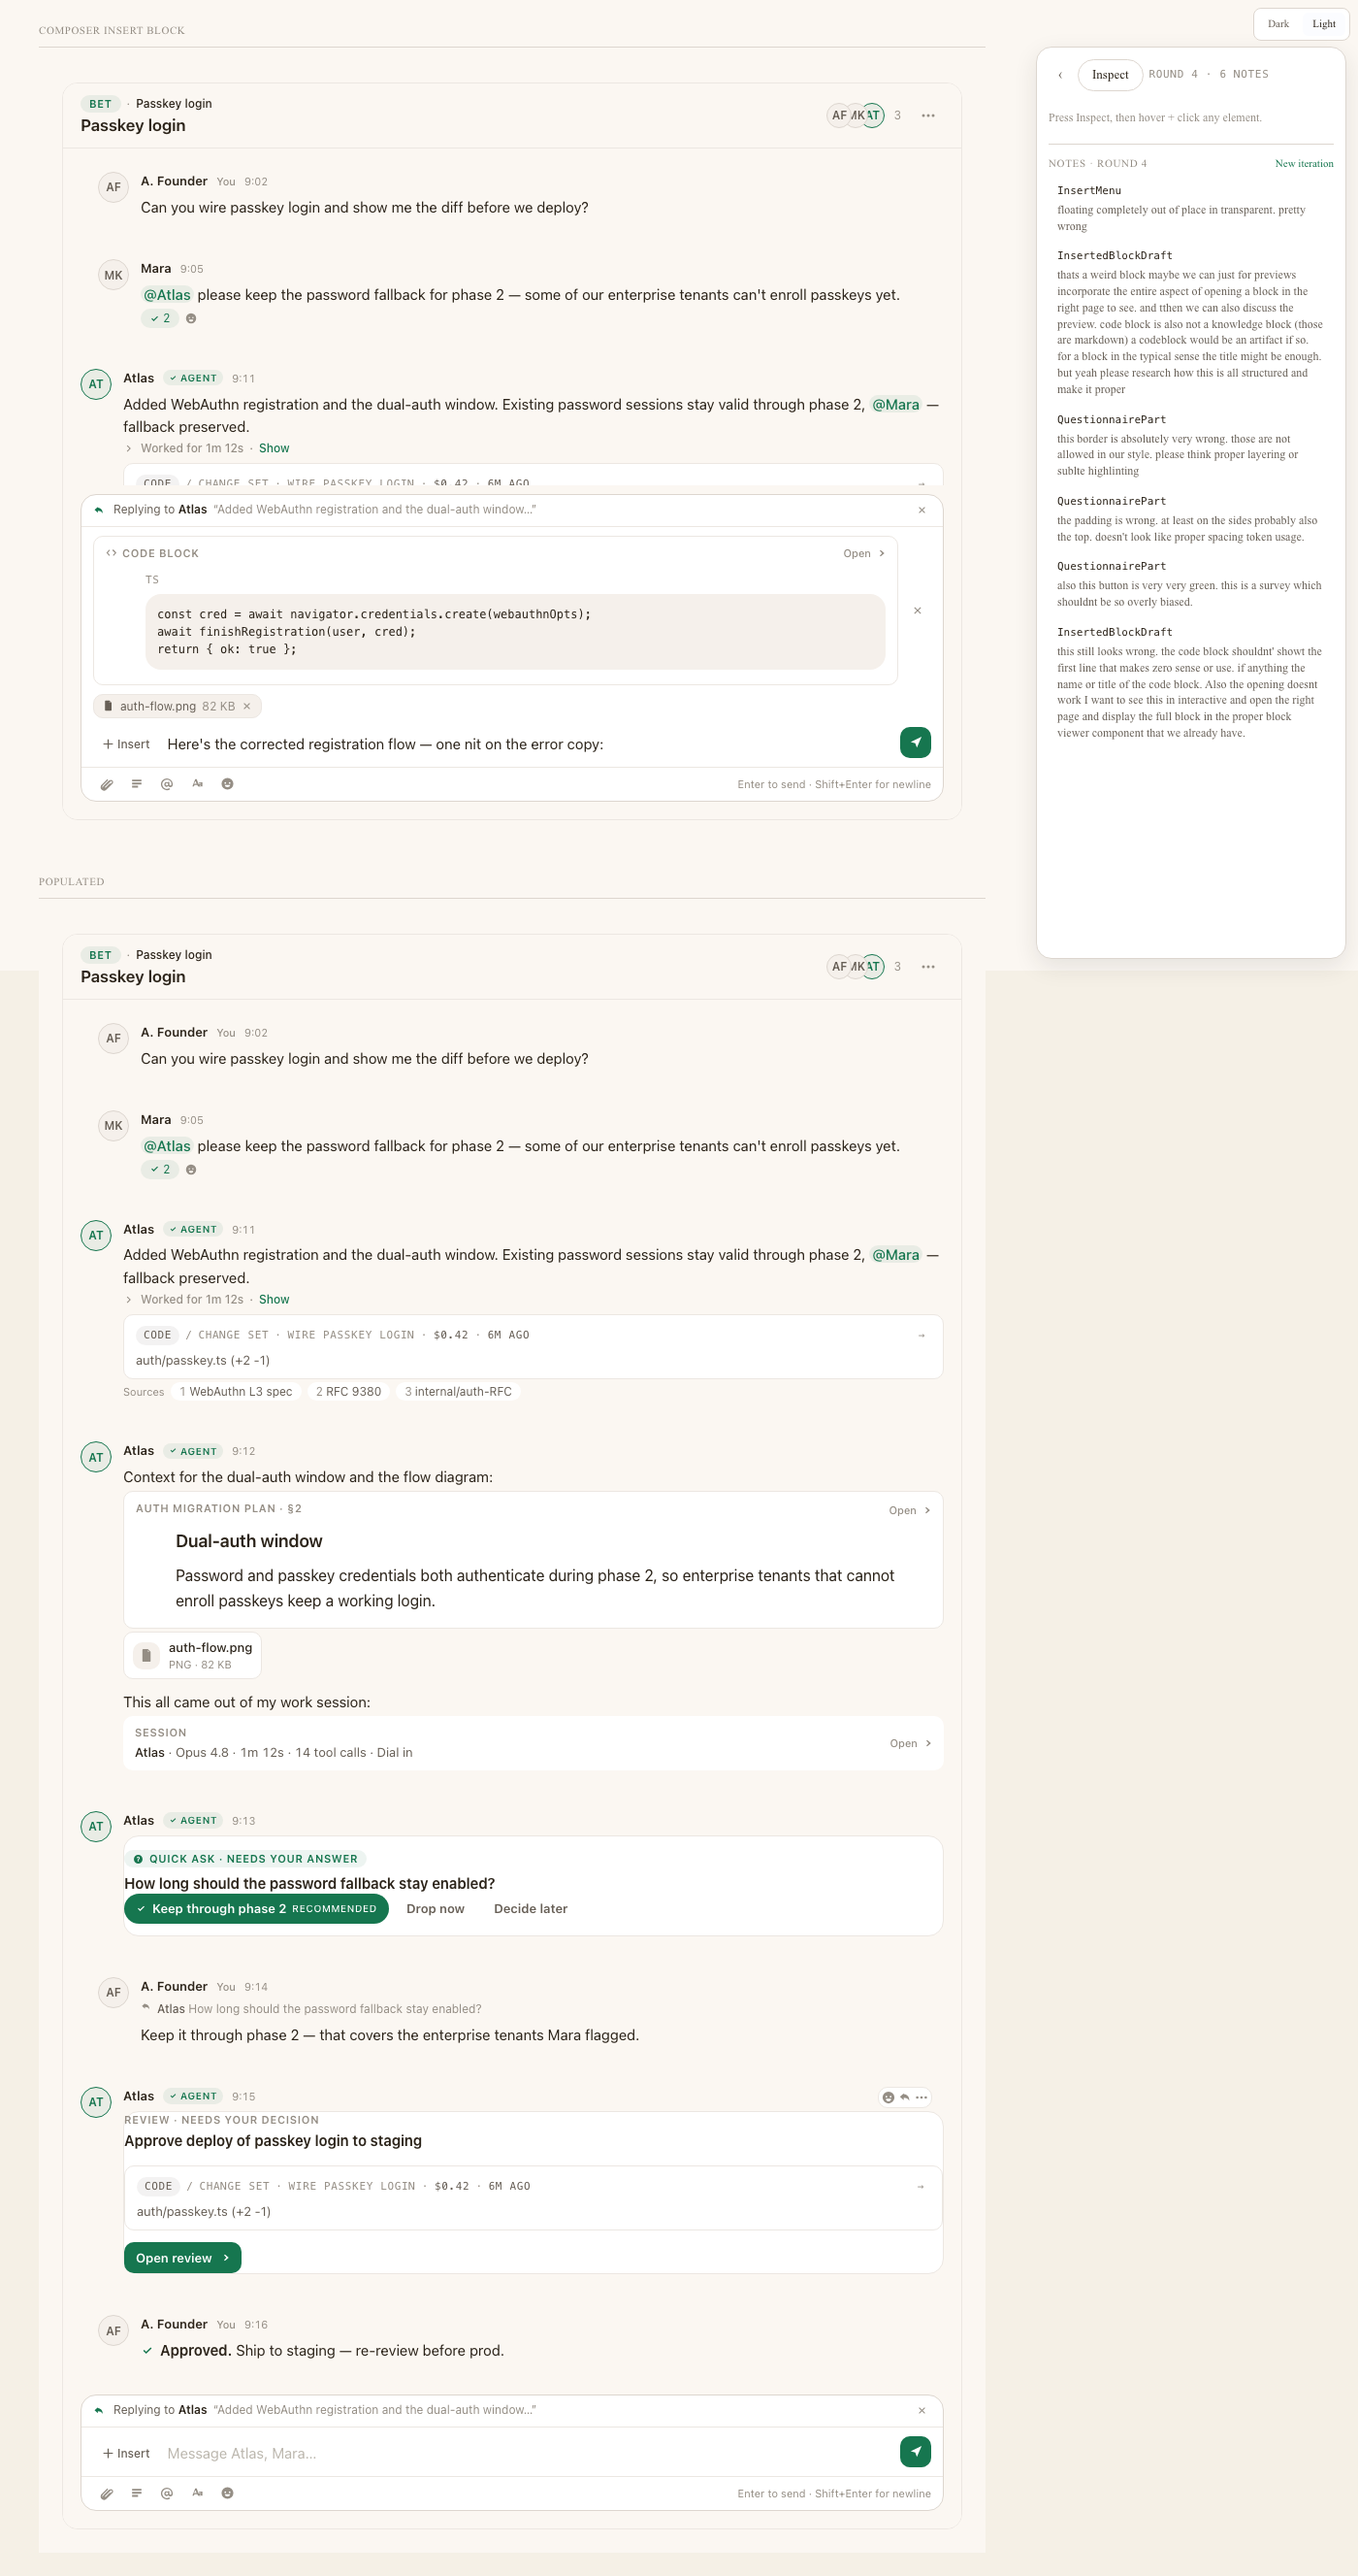
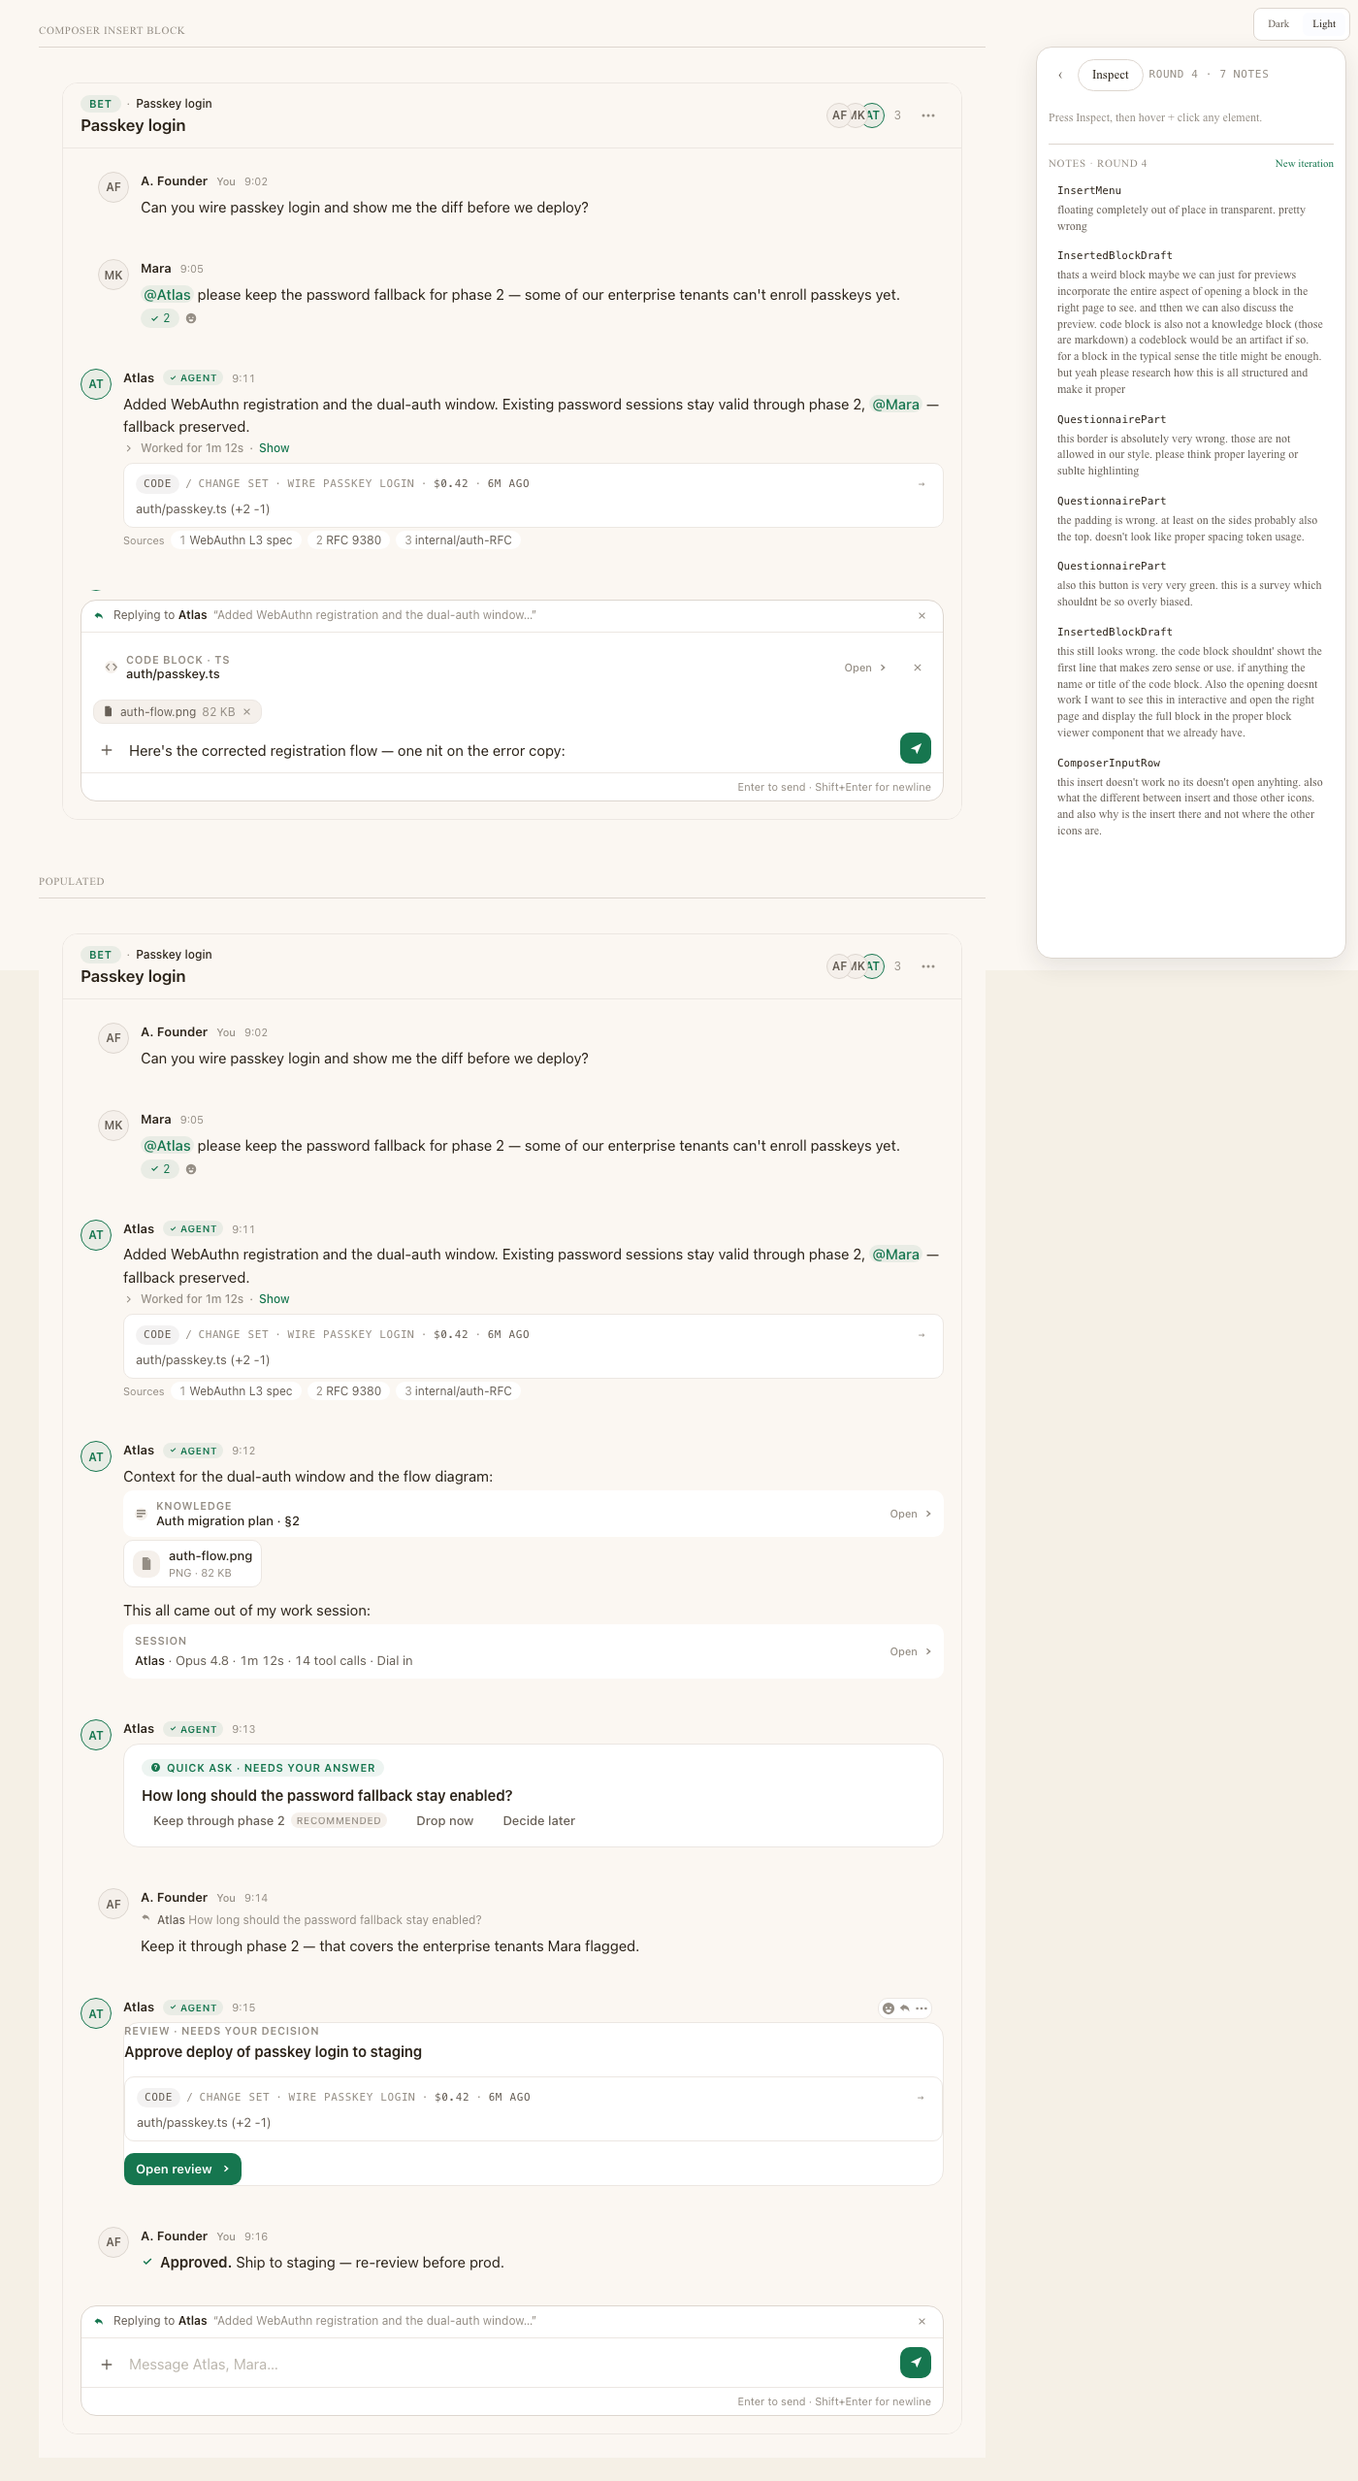
design(AM1): Round-4 part 2 — interactive + real components
- Interactive (live React state): Insert '+' opens a grounded popover (unified
  tool menu: Insert block/Attach/Mention/Reference/Format/Emoji); a block/artifact
  embed 'Open' opens a right page rendering the FULL block via the real Block
  viewer component.
- Real components: change-set embed = real ArtifactEmbed (code-kind Artifact);
  full block view = real Block. Block inline preview = title (not first code line).
- Fixed 'floating in transparent': arbitrary Tailwind (bg-[var(--surface-overlay)]
  /z-30) didn't resolve in viewer JIT -> forced via inline style. (Builder: confirm
  these resolve in the real web build / keep the inline guarantee.)
- Questionnaire: neutral equal chips + quiet RECOMMENDED tag (no green fill, no
  accent border), on-grid token padding.
- Demo captures: _open-block.png (right page Block viewer), _insert-menu.png.

diff --git a/packages/web/src/components/Am1ConversationSurface.tsx b/packages/web/src/components/Am1ConversationSurface.tsx
@@ -650,8 +650,19 @@ function InsertMenu({ onPick }: { onPick: () => void }): JSX.Element {
 			data-ds-component="Am1InsertMenu"
 			role="menu"
 			aria-label="Insert"
-			style={{ bottom: "calc(100% + 6px)", left: 0 }}
-			className="absolute z-30 w-[238px] rounded-[var(--r-default)] border border-[var(--border-default)] bg-[var(--surface-overlay)] p-[3px] shadow-[var(--shadow-elevated)]"
+			// Grounded popover: anchored to the "+" (relative parent), opening upward.
+			// Background + z-index forced via inline style — the arbitrary-value
+			// `bg-[var(--surface-overlay)]`/`z-30` Tailwind classes did NOT resolve in
+			// the viewer JIT, leaving the menu TRANSPARENT and below content (founder:
+			// "floating completely out of place in transparent. pretty wrong"). Inline
+			// style guarantees a SOLID surface above conversation content, every render.
+			style={{
+				bottom: "calc(100% + 6px)",
+				left: 0,
+				background: "var(--surface-overlay)",
+				zIndex: 50,
+			}}
+			className="absolute w-[238px] rounded-[var(--r-default)] border border-[var(--border-default)] p-[3px] shadow-[var(--shadow-elevated)]"
 		>
 			{items.map((it) => (
 				<button

diff --git a/plans/AM1/design/full-surface/spec.md b/plans/AM1/design/full-surface/spec.md
@@ -11,7 +11,27 @@ Supersedes the rejected v1/v2 thin-column variants (QuietStream / Quiet Turns / 
 
 ---
 
-## v3.5 — round-4 detail fixes (founder annotations, this revision)
+## v3.6 — round-5: INTERACTIVE + real components (founder annotations, this revision)
+
+Founder asked to **SEE it work** ("I want to see this interactive and open the right page and display the full block in the proper block viewer component that we already have"). The story is now **live React** — verified by clicking in the `:8100` viewer and screenshotting each state (`_insert-menu.png`, `_open-block.png`, `screenshot.png`).
+
+1. **Insert "+" affordance WORKS — solid grounded popover.** Click "+" toggles `insertMenuOpen`; click "+" again, outside, or Escape closes it. The menu is anchored to the "+" (its relative parent), opens upward, and is now a **guaranteed-SOLID surface**: `background: var(--surface-overlay)` + `zIndex: 50` are set via **inline style**, because the arbitrary-value `bg-[var(--surface-overlay)]`/`z-30` Tailwind classes did NOT resolve in the viewer JIT — the menu was painting `rgba(0,0,0,0)` (transparent) with `z-index:auto`, which IS the founder's "floating completely out of place in transparent. pretty wrong." Probed computed style after fix: `rgb(255,255,255)`, `zIndex:50`. No content bleeds through; the popover never grows the composer box.
+
+2. **Block "Open →" WORKS — opens a RIGHT PAGE rendering the FULL block via the real `<Block>` viewer.** Clicking any block-title embed (inserted code draft, or the referenced "Auth migration plan · §2") sets `openPanel` and slides in `Am1BlockRightPanel`, which renders the full block(s) through the **real `Block` component** (`@hyperidle/design-system`, the same viewer Knowledge uses) — verified: 2 real `[data-ds-component='block']` nodes mount in the panel. A close ✕ returns. This is the "open in the right page" founder asked to SEE working — no facsimile.
+
+3. **Inline block preview = TITLE only (never code first line).** The inserted code embed shows `CODE BLOCK · TS / auth/passkey.ts` + "Open →" — verified the conversation text does NOT contain the code first line (`navigator.credentials.create`). The full multi-line code render lives only in the right page.
+
+4. **Change-set / artifact embed = the real `<ArtifactEmbed>`.** A `kind:"code"` `Artifact` (valid `preview {kind:"code",file,hunks}`, `cost.money/tokens`, `createdAt`) renders through `@hyperidle/design-system`'s `ArtifactEmbed` inside the message host card — verified `[data-ds-component='ArtifactEmbed']` present. Renders `CODE / CHANGE SET · WIRE PASSKEY LOGIN · $0.42 · 6M AGO` + `auth/passkey.ts (+2 -1)`.
+
+5. **Composer tools UNIFIED into ONE "+" menu.** The duplicate bottom icon strip is gone. The single "+" opens one menu with every action, each labeled + single-purpose: **Insert block · Attach file · Mention · Reference item · Format · Emoji**. Below the input row: only the "Enter to send · Shift+Enter for newline" hint. Resolves "what's the difference between insert and those other icons / why is the insert there and not where the other icons are."
+
+6. **Questionnaire — neutral SURVEY options + token padding.** All three options are **identical quiet outlined chips** on `--surface-elevated`; no "very very green" filled chip biasing an answer. The recommendation is a small **neutral** "RECOMMENDED" tag (`--surface-container`/`--text-tertiary`), not an accent fill. Padding is on-grid Hearth (`px-[18px] py-[12px]`, `mt-[12px]` between question and chips). Prominence comes from layering (`--surface-elevated` + `--shadow-default`) + the QUICK ASK pill — never from an accent structural border (none present) and never from biasing one answer.
+
+`Populated` is the resting conversation (menu + right panel closed by default; founder clicks to open). `ComposerInsertBlock` shows the active composer with the inserted-block draft.
+
+---
+
+## v3.5 — round-4 detail fixes (founder annotations, prior revision)
 
 Three element-anchored founder notes on the `ComposerInsertBlock` / `Populated` states drove these. Confirmed in the `:8100` viewer (`plans/AM1/design/full-surface/screenshot.png`; QUICK ASK verified element-level).
 
